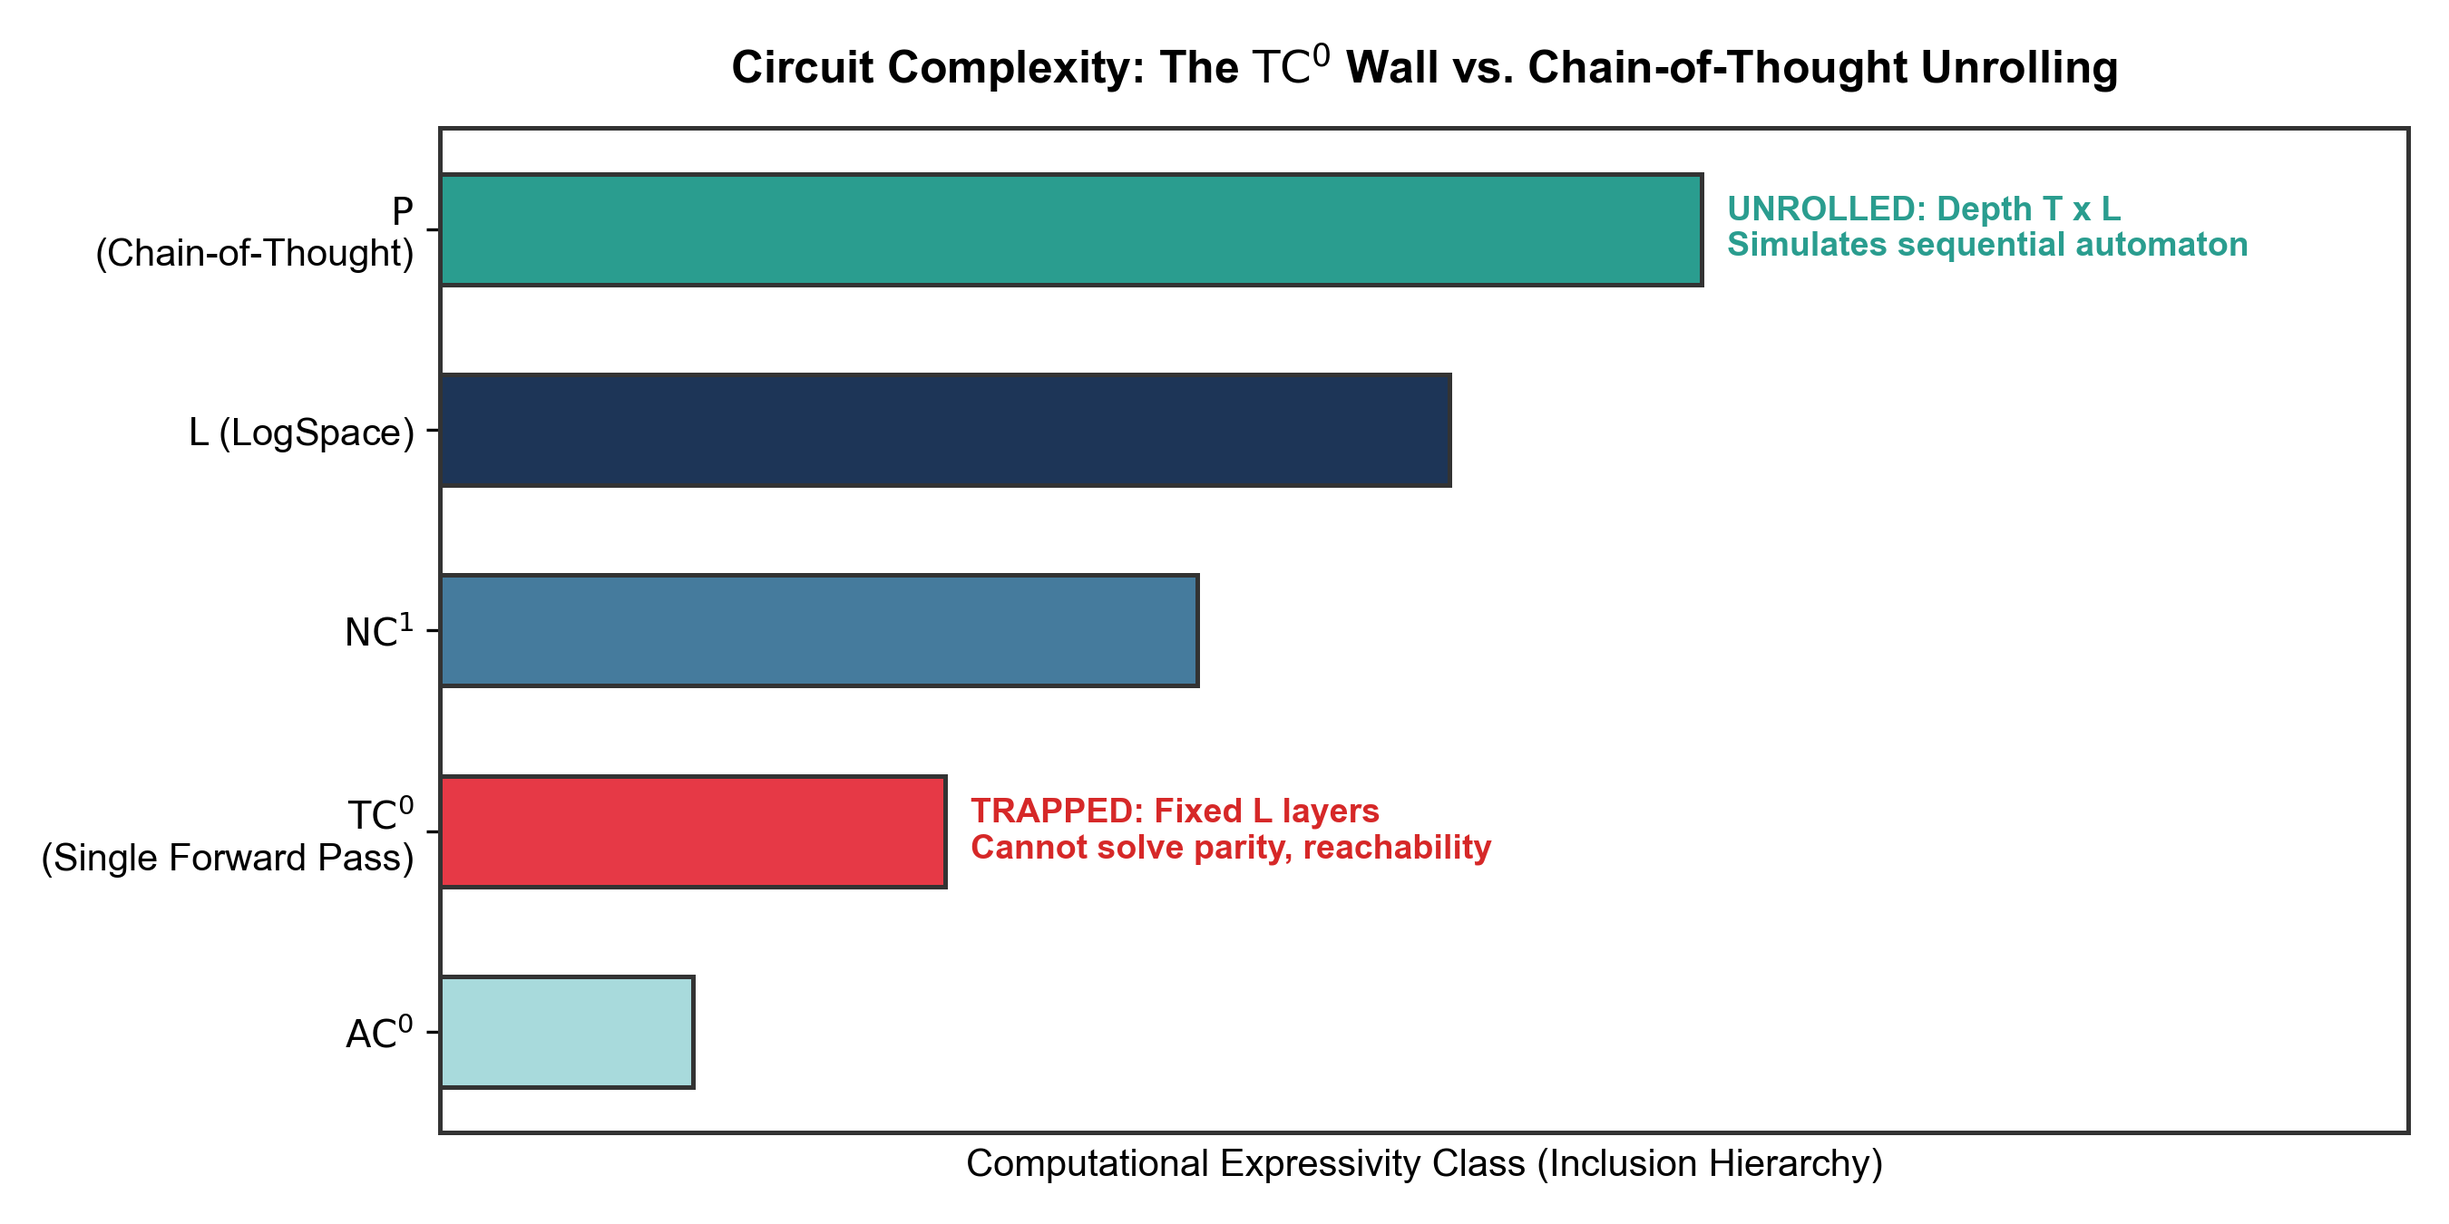
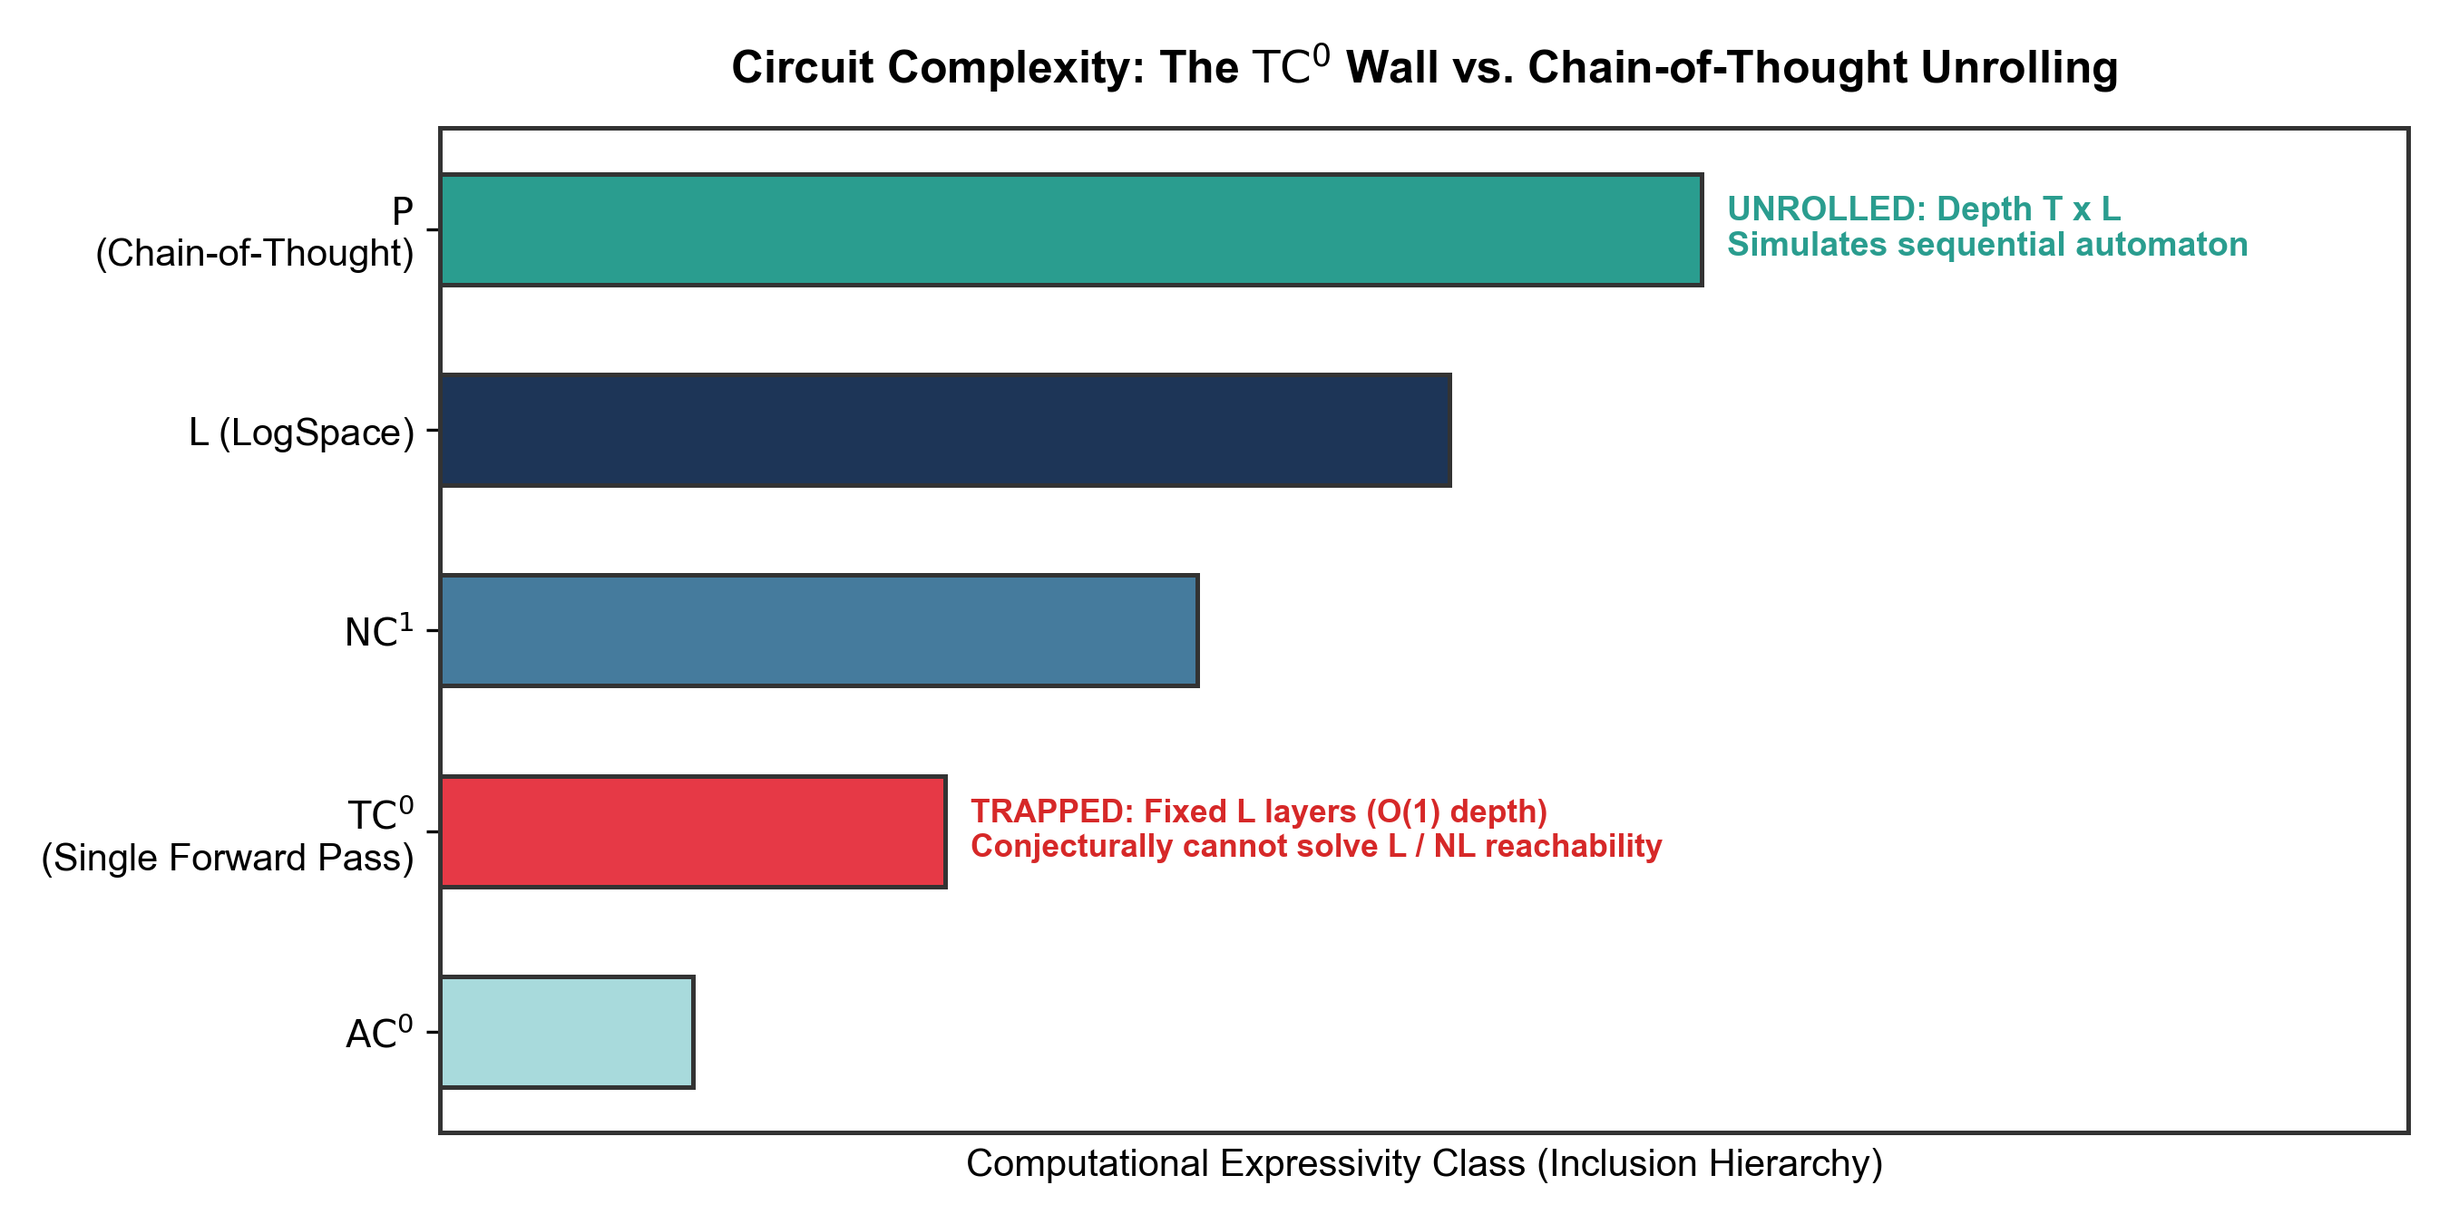
content(maths): fix circuit complexity TC0 arguments and derive Chinchilla exponent

Changed region(s): [[0.4044, 0.6533, 0.6844, 0.7156]]

diff --git a/scripts/generate_transformer_plots.py b/scripts/generate_transformer_plots.py
@@ -298,7 +298,7 @@ colors_c = ['#a8dadc', '#e63946', '#457b9d', '#1d3557', '#2a9d8f']
 
 bars_c = ax.barh(classes, depths, color=colors_c, height=0.55, edgecolor='#333333', lw=1.2)
 
-ax.text(2.1, 1, 'TRAPPED: Fixed L layers\nCannot solve parity, reachability', fontsize=9, color='#d62828', fontweight='bold', va='center')
+ax.text(2.1, 1, 'TRAPPED: Fixed L layers (O(1) depth)\nConjecturally cannot solve L / NL reachability', fontsize=8.5, color='#d62828', fontweight='bold', va='center')
 ax.text(5.1, 4, 'UNROLLED: Depth T x L\nSimulates sequential automaton', fontsize=9, color='#2a9d8f', fontweight='bold', va='center')
 
 ax.set_title(r'Circuit Complexity: The $\mathrm{TC}^0$ Wall vs. Chain-of-Thought Unrolling', fontsize=12, fontweight='bold', pad=12)

diff --git a/src/content/maths/the-math-of-transformers/index.md b/src/content/maths/the-math-of-transformers/index.md
@@ -277,52 +277,62 @@ This statement is not just empirically dubious. From the standpoint of theoretic
 
 To understand why, we have to look at **circuit complexity**.
 
-In theoretical computer science, we classify problems by the depth and size of the boolean or arithmetic circuits needed to solve them. 
+In theoretical computer science, we classify problems by the depth and size of the boolean or arithmetic circuits needed to solve them:
 
-* **$\text{AC}^0$**: The class of languages recognizable by boolean circuits of constant depth $O(1)$, polynomial size in input length $N$, with unbounded fan-in AND and OR gates.
-* **$\text{TC}^0$**: An extension of $\text{AC}^0$ that allows **majority (threshold) gates**—gates that output 1 if and only if more than half of their inputs are 1.
-
-$\text{TC}^0$ is a surprisingly powerful class. It can compute basic arithmetic: integer addition, subtraction, multiplication, and sorting can all be done in uniform $\text{TC}^0$.
+* **$\text{AC}^0$**: The class of languages recognizable by boolean circuits of constant depth $O(1)$, polynomial size in input length $N$, with unbounded fan-in AND and OR gates. (Famously, Furst-Saxe-Sipser and Håstad proved that $\text{AC}^0$ cannot compute the basic PARITY function).
+* **$\text{TC}^0$**: An extension of $\text{AC}^0$ that equips circuits with **majority (threshold) gates**—gates that output 1 if and only if more than half of their inputs are 1. Because threshold gates can count and tally inputs, $\text{TC}^0$ can easily compute PARITY, integer addition, comparison, sorting, and even integer multiplication (Hesse, Allender, Barrington 2002) in constant depth $O(1)$.
 
 ### The Merrill & Sabharwal Theorem (2023)
 
-In seminal work by William Merrill and Ashish Sabharwal (*["The Expressive Power of Transformers with Chain of Thought"](https://arxiv.org/abs/2310.07923)* and related papers), the researchers proved a rigorous upper bound on what a standard transformer can compute:
+In seminal work by William Merrill and Ashish Sabharwal (*["The Expressive Power of Transformers with Chain of Thought"](https://arxiv.org/abs/2310.07923)* and related papers), the researchers established a rigorous computational ceiling on what a standard transformer can compute:
 
 > **Theorem:** A fixed-depth transformer with $L$ layers running in a single forward pass with log-precision activations is computationally bounded within the circuit complexity class **uniform $\text{TC}^0$**.
 
-Why? Because each layer of a transformer performs linear projections (matrix multiplication), thresholding/softmax (which can simulate soft majority voting), and feed-forward mapping. When the number of layers $L$ is fixed (e.g., 32 layers or 128 layers), the depth of the equivalent circuit is $O(1)$ with respect to the sequence length $N$.
+Why? Because each layer of a transformer performs linear projections (matrix multiplication), continuous thresholding/softmax (which can simulate soft majority voting), and feed-forward MLP mapping. When the number of layers $L$ is fixed (e.g., 32 layers or 128 layers), the depth of the equivalent circuit is $O(1)$ with respect to sequence length $N$.
 
-### What $\text{TC}^0$ Cannot Do
+### The Limits of $\text{TC}^0$ and the Open Frontier
 
-Computational complexity theorists have proven hard lower bounds for $\text{TC}^0$:
+Where does $\text{TC}^0$ sit in the broader computational cosmos? Consider the standard circuit complexity inclusion hierarchy:
 
-$$\text{TC}^0 \subsetneq \text{NC}^1 \subseteq \text{L} \subseteq \text{P}$$
+$$\text{AC}^0 \subsetneq \text{TC}^0 \subseteq \text{NC}^1 \subseteq \text{L} \subseteq \text{NL} \subseteq \text{P}$$
 
-There are basic, fundamental computational problems that **provably cannot be solved in $\text{TC}^0$**:
-1. **Unbounded Parity**: Determining whether the number of 1s in an arbitrary-length bitstring is even or odd cannot be computed by a constant-depth circuit without exponential size.
-2. **Graph Reachability / Connectivity**: Determining if a path exists between two nodes in an arbitrary graph (an L-complete / NL-complete problem).
-3. **Context-Free Grammar Parsing**: Checking the validity of deeply nested structures.
-4. **Permutation Group Membership**: Evaluating sequential algebraic permutations.
+While $\text{AC}^0 \subsetneq \text{TC}^0$ is a proven strict separation, **whether $\text{TC}^0 \subsetneq \text{NC}^1$ (or even $\text{TC}^0 \subsetneq \text{P}$) is one of the deepest open questions in theoretical computer science.** We do not yet possess an unconditioned proof that $\text{TC}^0 \neq \text{NC}^1$.
 
-### The Real-World Consequence
+However, complexity theorists almost universally conjecture that these inclusions are strict. Under these standard, widely accepted complexity conjectures:
 
-Have you ever wondered why a 400-billion-parameter model will confidently fail when asked to multiply two 40-digit numbers together in one shot, or why it hallucinates chess moves when asked to evaluate a board position without showing its work?
+1. **Boolean Formula Evaluation ($\text{NC}^1$)**: Evaluating arbitrary balanced boolean formulas with nested AND/OR gates, or evaluating the word problem over the non-solvable permutation group $S_5$ (Barrington's Theorem), is conjectured to be strictly impossible in constant-depth $\text{TC}^0$.
+2. **Graph Reachability / Connectivity ($\text{L}$ and $\text{NL}$)**: Determining whether a path exists between two nodes in an arbitrary undirected graph (in $\text{L}$ via Reingold 2008) or a general directed graph ($\text{NL}$-complete) requires logarithmic space and sequential depth. It is widely believed that $\text{L} \not\subseteq \text{TC}^0$.
+3. **Sequential State Tracking**: Simulating arbitrary $K$-step finite state machines or traversing dynamic computational paths requires circuit depth proportional to the number of steps $\Omega(K)$, not constant depth $O(1)$.
 
-People call it a "hallucination" or say "the model wasn't trained on enough math."
+### The Softmax Nuance: Why Transformers Fail on Parity Anyway
+
+Here lies a brilliant theoretical nuance. While an idealized $\text{TC}^0$ circuit with hard threshold gates can compute PARITY in constant depth, **real-world transformers consistently fail at unbounded parity.** Why?
+
+Because transformers do not use discrete, hard majority gates; they use **continuous, softmax-normalized attention**.
+
+In 2020, Michael Hahn published a landmark paper, *["Theoretical Limitations of Self-Attention in Model Performance"](https://arxiv.org/abs/2004.13781)* (TACL 2020). Hahn proved that for soft self-attention over sequence length $N$, uniform attention distributes weights as $1/N$. To detect a single bit flip in an $N$-bit string, the attention mechanism must distinguish between sums differing by a single token. As $N \to \infty$, the output representation sensitivity vanishes unless attention logits scale to infinity—which requires either infinite numerical precision or zero softmax temperature.
+
+Under bounded precision and smooth activations, standard transformers are practically even more constrained than idealized $\text{TC}^0$ circuits on tasks sensitive to single-token perturbations across long contexts.
+
+### The Real-World Consequence: Circuit Depth Mismatch
+
+Have you ever wondered why a 400-billion-parameter model will confidently fail when asked to evaluate complex chess board positions or execute arbitrary sequential algorithms in a single forward pass?
+
+People call it a "hallucination" or say "the model wasn't trained on enough data."
 
 **No. It is a circuit depth impossibility.** 
 
-Multi-digit multiplication and state-tracking require a sequential carry chain of depth proportional to the number of digits: $O(N)$ sequential steps. A transformer with 96 layers has $O(1)$ sequential depth. 
+Any algorithm that requires a sequential chain of state dependencies—where step $k$ depends strictly on the outcome of step $k-1$—inherently demands circuit depth proportional to the number of steps: $\Omega(K)$ sequential time. A transformer with 96 layers has $O(1)$ sequential depth. 
 
-Asking a 96-layer transformer to solve a 200-step sequential problem in a single forward pass is mathematically equivalent to asking a human to compute $84729384 \times 91823749$ in their head in 100 milliseconds without scratch paper. It doesn't matter how high their IQ is; the biological circuit depth of their visual cortex cannot execute that many sequential gates in a single cycle.
+Asking a 96-layer transformer to execute a 200-step sequential algorithm in a single forward pass is mathematically equivalent to asking a human to compute $84729384 \times 91823749$ in their head in 100 milliseconds without scratch paper. It doesn't matter how high their IQ is; the biological circuit depth of their visual cortex cannot execute that many sequential gates in a single cycle.
 
 ### Chain-of-Thought is Circuit Unrolling
 
-This explains why **Chain-of-Thought (CoT)** is not a quirky prompting hack. It is a mathematical transformation of the computational model.
+This explains why **Chain-of-Thought (CoT)** is not a quirky prompting hack. It is a fundamental mathematical transformation of the computational model.
 
 ```
 Single Forward Pass (Trapped in TC⁰):
-Input [X] ---> [Fixed Depth L] ---> Output [Y]  (O(1) sequential time)
+Input [X] ---> [Fixed Depth L] ---> Output [Y]  (O(1) sequential depth)
 
 Autoregressive Chain-of-Thought (Unrolled Automaton):
 Input [X] ---> [Layer L] ---> Token t₁
@@ -331,18 +341,18 @@ Input [X] ---> [Layer L] ---> Token t₁
              [Layer L] ---> Token t₂
                      |
                      v
-             [Layer L] ---> Token t₃ ... ---> Output [Y]  (O(T × L) sequential time)
+             [Layer L] ---> Token t₃ ... ---> Output [Y]  (O(T × L) sequential depth)
 ```
 
 When an autoregressive model generates $T$ intermediate "thinking" tokens before answering:
 1. Each generated token is fed back into the context window as input for the next step.
 2. The effective circuit depth is no longer $L$; it is now **$T \times L$**.
-3. The computational power jumps from uniform $\text{TC}^0$ to the class of **polynomial-time Turing machines** (or space-bounded automata, depending on context size).
+3. The computational power jumps from uniform $\text{TC}^0$ to the class of **polynomial-time Turing machines** (or space-bounded automata, bounded by context length).
 
 Chain-of-thought is not the model "pondering like a human." It is an unrolled temporal clock cycle that grants a shallow circuit the sequential depth it mathematically requires to track state.
 
 ![Circuit Complexity Hierarchy and Chain of Thought](./circuit_complexity_hierarchy.png)
-*Figure 4: Computational expressivity hierarchy. A fixed-depth transformer in a single forward pass is strictly bounded within uniform $\mathrm{TC}^0$, rendering it mathematically unable to solve problems with sequential state tracking (parity, reachability). Autoregressive Chain-of-Thought unrolls the circuit into depth $T \times L$, elevating its expressive power into sequential polynomial time ($\mathrm{P}$).*
+*Figure 4: Computational expressivity hierarchy. A fixed-depth transformer in a single forward pass is bounded within uniform $\mathrm{TC}^0$. Under standard complexity conjectures ($\mathrm{TC}^0 \subsetneq \mathrm{NC}^1 \subseteq \mathrm{L}$), constant-depth circuits cannot solve problems requiring sequential state tracking (formula evaluation, graph reachability). Autoregressive Chain-of-Thought unrolls the circuit into depth $T \times L$, elevating its expressive power into sequential polynomial time ($\mathrm{P}$).*
 
 ---
 
@@ -371,15 +381,29 @@ where:
 * $A, B$ are scaling constants.
 * $\alpha \approx 0.34, \beta \approx 0.28$ are empirical power-law exponents.
 
-The total training compute (in FLOPs) is approximately $C \approx 6ND$. Under compute-optimal allocation (setting $\frac{\partial L}{\partial N}$ and $\frac{\partial L}{\partial D}$ equal via Lagrange multipliers), both parameters and tokens should scale in roughly equal proportion:
+The total training compute (in FLOPs) is approximately $C \approx 6ND$. Under compute-optimal allocation (setting the marginal loss reduction per FLOP equal across parameters and tokens via Lagrange multipliers on $C \approx 6ND$):
 
-$$N \propto C^{0.5}, \quad D \propto C^{0.5}$$
+$$N \propto C^a, \quad D \propto C^b \quad \text{where } a = \frac{\beta}{\alpha + \beta}, \; b = \frac{\alpha}{\alpha + \beta}$$
 
-Now look at the marginal return of compute on loss. Taking the derivative of the reducible loss $L_{\text{reducible}} = L - E \propto C^{-\gamma}$ with respect to compute $C$:
+Using the Chinchilla empirical exponents $\alpha \approx 0.34$ and $\beta \approx 0.28$:
 
-$$\frac{\partial L}{\partial C} \propto - \gamma C^{-(\gamma + 1)}$$
+$$a = \frac{0.28}{0.34 + 0.28} \approx 0.45, \quad b = \frac{0.34}{0.34 + 0.28} \approx 0.55$$
 
-where $\gamma \approx 0.15$. 
+(Notice both scale at roughly $C^{0.5}$). When you substitute these optimal allocations back into the reducible loss $L_{\text{reducible}} = \frac{A}{N^\alpha} + \frac{B}{D^\beta}$, both terms scale with compute by the exact same combined exponent:
+
+$$\alpha a = \beta b = \frac{\alpha \beta}{\alpha + \beta} = \gamma$$
+
+Evaluating this directly gives:
+
+$$\gamma = \frac{(0.34)(0.28)}{0.34 + 0.28} \approx 0.154$$
+
+Thus, along the compute-optimal frontier, the reducible loss collapses into a single power law of compute:
+
+$$L_{\text{reducible}}(C) = L(C) - E \propto C^{-\gamma} \approx C^{-0.154}$$
+
+Now look at the marginal return of compute on loss. Taking the derivative with respect to compute $C$:
+
+$$\frac{\partial L}{\partial C} \propto - \gamma C^{-(\gamma + 1)}$$ 
 
 This is a brutal mathematical reality: **diminishing returns are baked directly into the power law.**
 
@@ -486,7 +510,7 @@ If the naive scaling hypothesis had held true, OpenAI and Anthropic would simply
 ### 1. From Passive Autocomplete to Autonomous Agentic Harnesses
 In systems like **Claude Fable** and **Claude Mythos**, the transformer is no longer treated as a lone oracle that spits out answers in one shot. Anthropic engineered these models around **persistent state tracking, multi-step tool scaffolding, and recursive execution feedback**. 
 
-Why? Because of the **$\text{TC}^0$ circuit theorem**. When a task requires exploring an unfamiliar codebase, isolating a memory leak, or synthesizing a multi-file refactor, no static forward pass can track that sequential state. The model must interact with a running terminal, observe execution outcomes, and update its state dynamically. The computational complexity is externalized from the weights into the interaction loop.
+Why? Because empirical engineering collided with the exact computational ceilings predicted by circuit complexity. When a task requires exploring an unfamiliar codebase, isolating a memory leak, or synthesizing a multi-file refactor, no static forward pass can track that sequential state. The model must interact with a running terminal, observe execution outcomes, and update its state dynamically. The computational complexity is externalized from the static weights into the interaction loop.
 
 ### 2. Test-Time Compute & Grounded Verification (GPT Astra)
 Similarly, **GPT Astra** embodies the shift away from pretraining brute force toward **test-time search and verifiable reinforcement learning (RLVR)**.
